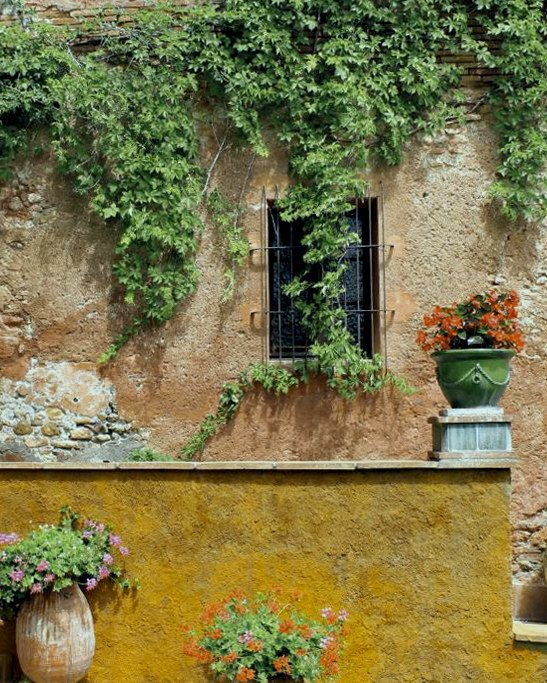
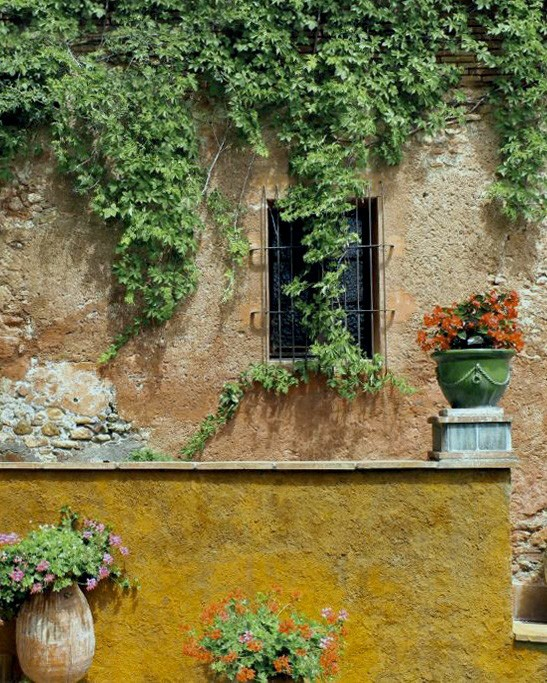
Paula's window edit; church verticals fixed and graded
Claude-Session: https://claude.ai/code/session_01NVvXN2ZfjubBKEGKyT8HuS

Changed region(s): [[0.0, 0.0, 0.4351, 0.0615]]

diff --git a/index.html b/index.html
@@ -175,7 +175,7 @@ footer p{font-size:13.33px}
     <h2 class="d"><span class="n">I.</span><span class="t">Ceremonia en Sant<br>Pere del Serrallo</span></h2>
     <p class="body">Nos casamos el sábado 26 de junio a las 17:30 en la iglesia de Sant Pere, en el barrio marinero del Serrallo. Os pedimos llegar unos minutos antes.</p>
     <div><a class="btn" href="https://www.google.com/maps/search/?api=1&amp;query=Esgl%C3%A9sia+de+Sant+Pere+del+Serrallo+Tarragona" target="_blank" rel="noopener"><span>Ver en Google Maps</span></a></div>
-    <figure class="photo" style="margin-bottom:0;margin-left:0;margin-right:0"><img src="img/iglesia-orig.jpg" alt="Iglesia de Sant Pere del Serrallo, Tarragona" loading="lazy"></figure>
+    <figure class="photo" style="margin-bottom:0;margin-left:0;margin-right:0"><img src="img/iglesia-edit.jpg" alt="Iglesia de Sant Pere del Serrallo, Tarragona" loading="lazy"></figure>
   </div>
 </section>
 
@@ -190,7 +190,7 @@ footer p{font-size:13.33px}
     <p class="body">Después de la ceremonia nos vamos a Mas La Boella, una masía entre olivos en La Canonja. Allí tendremos el cocktail, la cena y la fiesta.</p>
     <div class="gallery">
       <img class="wide" src="img/masia-edit.jpg" alt="La masía entre árboles al atardecer" loading="lazy">
-      <img src="img/ventana-edit.jpg" alt="Muro con hiedra y macetas en Mas La Boella" loading="lazy">
+      <img src="img/ventana-edit.jpg?v=2" alt="Muro con hiedra y macetas en Mas La Boella" loading="lazy">
       <img src="img/patio-edit.jpg" alt="Camino junto a los muros de la masía" loading="lazy">
     </div>
   </div>
